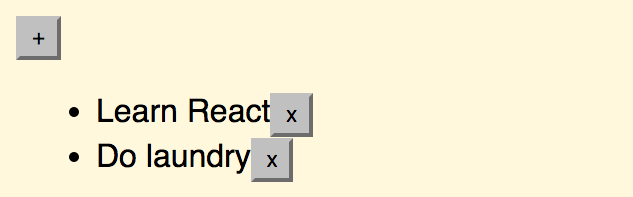
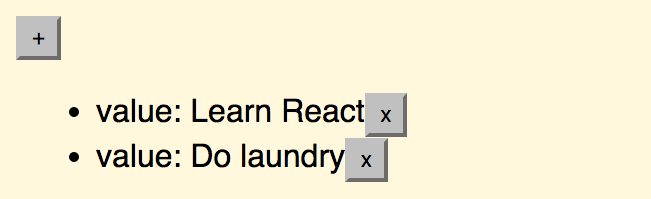
editing notes - Quality pass

Changed region(s): [[0.09, 0.4569, 0.6303, 0.9442], [0.0, 0.0914, 0.1201, 0.3046]]

diff --git a/manuscript/getting_started/06_editing_notes.md b/manuscript/getting_started/06_editing_notes.md
@@ -29,7 +29,7 @@ It is possible to use both of these designs together. You can even have a contro
 
 Logically `Editable` consists of two separate portions. We'll need to display the default value while we are not `editing`. In case we are `editing`, we'll want to show an `Edit` control instead. In this case we'll settle for a simple input as that will do the trick.
 
-Before digging into the details, we can implement a little stub and connect that to the application. This will give us the basic structure we need to grow the rest.
+Before digging into the details, we can implement a little stub and connect that to the application. This will give us the basic structure we need to grow the rest. To get started, we'll adjust the component hierarchy a notch to make it easier to implement the stub.
 
 T> The official documentation of React discusses [controlled components](https://facebook.github.io/react/docs/forms.html) in greater detail.
 
@@ -88,6 +88,8 @@ leanpub-end-insert
 )
 ```
 
+Now that we have room to work, we can set up a stub for `Editable`.
+
 ## Adding `Editable` Stub
 
 We can model a rough starting point based on our specification as below. The idea is that we'll branch based on the `editing` prop and attach the props needed for implementing our logic:
@@ -107,21 +109,19 @@ export default ({editing, value, onEdit, className, ...props}) => {
       {...props} />;
   }
 
-  return <span {...props}>{value}</span>;
+  return <span {...props}>value: {value}</span>;
 }
 
-const Edit = ({onEdit = () => {}, value, ...props}) => {
-  return (
-    <div onClick={onEdit} {...props}>
-      <span>edit: {value}</span>
-    </div>
-  );
-};
+const Edit = ({onEdit = () => {}, value, ...props}) => (
+  <div onClick={onEdit} {...props}>
+    <span>edit: {value}</span>
+  </div>
+);
 ```
 
-To see our stub in action we still need to connect it with our application.
+Given `className` accepts only a string, it can be difficult to work with when you have multiple classes depending on some logic. This is where a package known as [classnames](https://www.npmjs.org/package/classnames) can be useful. It accepts almost arbitrary input and converts that to a string solving the problem.
 
-T> Given `className` accepts only a string, it can be difficult to work with when you have multiple classes depending on some logic. This is where a package known as [classnames](https://www.npmjs.org/package/classnames) can be useful. It accepts almost arbitrary input and converts that to a string solving the problem.
+To see our stub in action we still need to connect it with our application.
 
 ## Connecting `Editable` with `Notes`
 
@@ -147,30 +147,27 @@ export default ({
 leanpub-end-insert
 leanpub-start-delete
   <ul>{notes.map(({id, task}) =>
-leanpub-end-delete
-leanpub-start-insert
-  <ul>{notes.map(({id, editing, task}) =>
-leanpub-end-insert
     <li key={id}>
-leanpub-start-delete
       <Note>
-leanpub-end-delete
-leanpub-start-insert
-      <Note onClick={onNoteClick.bind(null, id)}>
-leanpub-end-insert
-leanpub-start-delete
         <span>{task}</span>
-leanpub-end-delete
-leanpub-start-insert
-        <Editable
-          editing={editing}
-          value={task}
-          onEdit={onEdit.bind(null, id)} />
-leanpub-end-insert
         <button onClick={onDelete.bind(null, id)}>x</button>
       </Note>
     </li>
   )}</ul>
+leanpub-end-delete
+leanpub-start-insert
+  <ul>{notes.map(({id, editing, task}) =>
+    <li key={id}>
+      <Note onClick={onNoteClick.bind(null, id)}>
+        <Editable
+           editing={editing}
+           value={task}
+           onEdit={onEdit.bind(null, id)} />
+        <button onClick={onDelete.bind(null, id)}>x</button>
+      </Note>
+    </li>
+  )}</ul>
+leanpub-end-insert
 )
 ```
 
@@ -211,11 +208,14 @@ leanpub-end-insert
       </div>
     );
   }
+  addNote = () => {
+    ...
+  }
   deleteNote = (id, e) => {
     ...
   }
 leanpub-start-insert
-  activateNoteEdit = (id) => {console.log('act', id);
+  activateNoteEdit = (id) => {
     this.setState({
       notes: this.state.notes.map(note => {
         if(note.id === id) {
@@ -246,6 +246,8 @@ If you try to edit a `Note` now, you should see something like this:
 
 ![Tracking `editing` state](images/react_07.png)
 
+If you click a `Note` twice to confirm the edit, you should see an `Uncaught Invariant Violation` error at the browser console. This happens because we don't deal with `task` correctly yet. We have bound only `id` and `task` will actually point to an `event` object provided by React. This is something we should fix next.
+
 T> If we used a normalized data structure (i.e., `{<id>: {id: <id>, task: <str>}}`), it would be possible to write the operations using `Object.assign` and avoid mutation.
 
 T> In order to clean up the code, you could extract a method to contain the logic shared by `activateNoteEdit` and `editNote`.
@@ -263,14 +265,30 @@ Consider the code below for the full implementation. Note how we are handling fi
 ```javascript
 ...
 
+
+export default ({editing, value, onEdit, className, ...props}) => {
+  if(editing) {
+    return <Edit
+      className={className}
+      value={value}
+      onEdit={onEdit}
+      {...props} />;
+  }
+
 leanpub-start-delete
-const Edit = ({onEdit = () => {}, value, ...props}) => {
-  return (
-    <div onClick={onEdit} {...props}>
-      <span>edit: {value}</span>
-    </div>
-  );
-};
+  return <span {...props}>value: {value}</span>;
+leanpub-end-delete
+leanpub-start-insert
+  return <span {...props}>{value}</span>;
+leanpub-end-insert
+}
+
+leanpub-start-delete
+const Edit = ({onEdit = () => {}, value, ...props}) => (
+  <div onClick={onEdit} {...props}>
+    <span>edit: {value}</span>
+  </div>
+);
 leanpub-end-delete
 leanpub-start-insert
 class Edit extends React.Component {
@@ -325,10 +343,9 @@ const Editable = ({editing, value, onEdit}) => {
   }
 
   return <Editable.Value value={value} />;
-}
+};
 
-Editable.Value = ({value, ...props}) =>
-  <span {...props}>{value}</span>
+Editable.Value = ({value, ...props}) => <span {...props}>{value}</span>
 
 class Edit extends React.Component {
   ...
